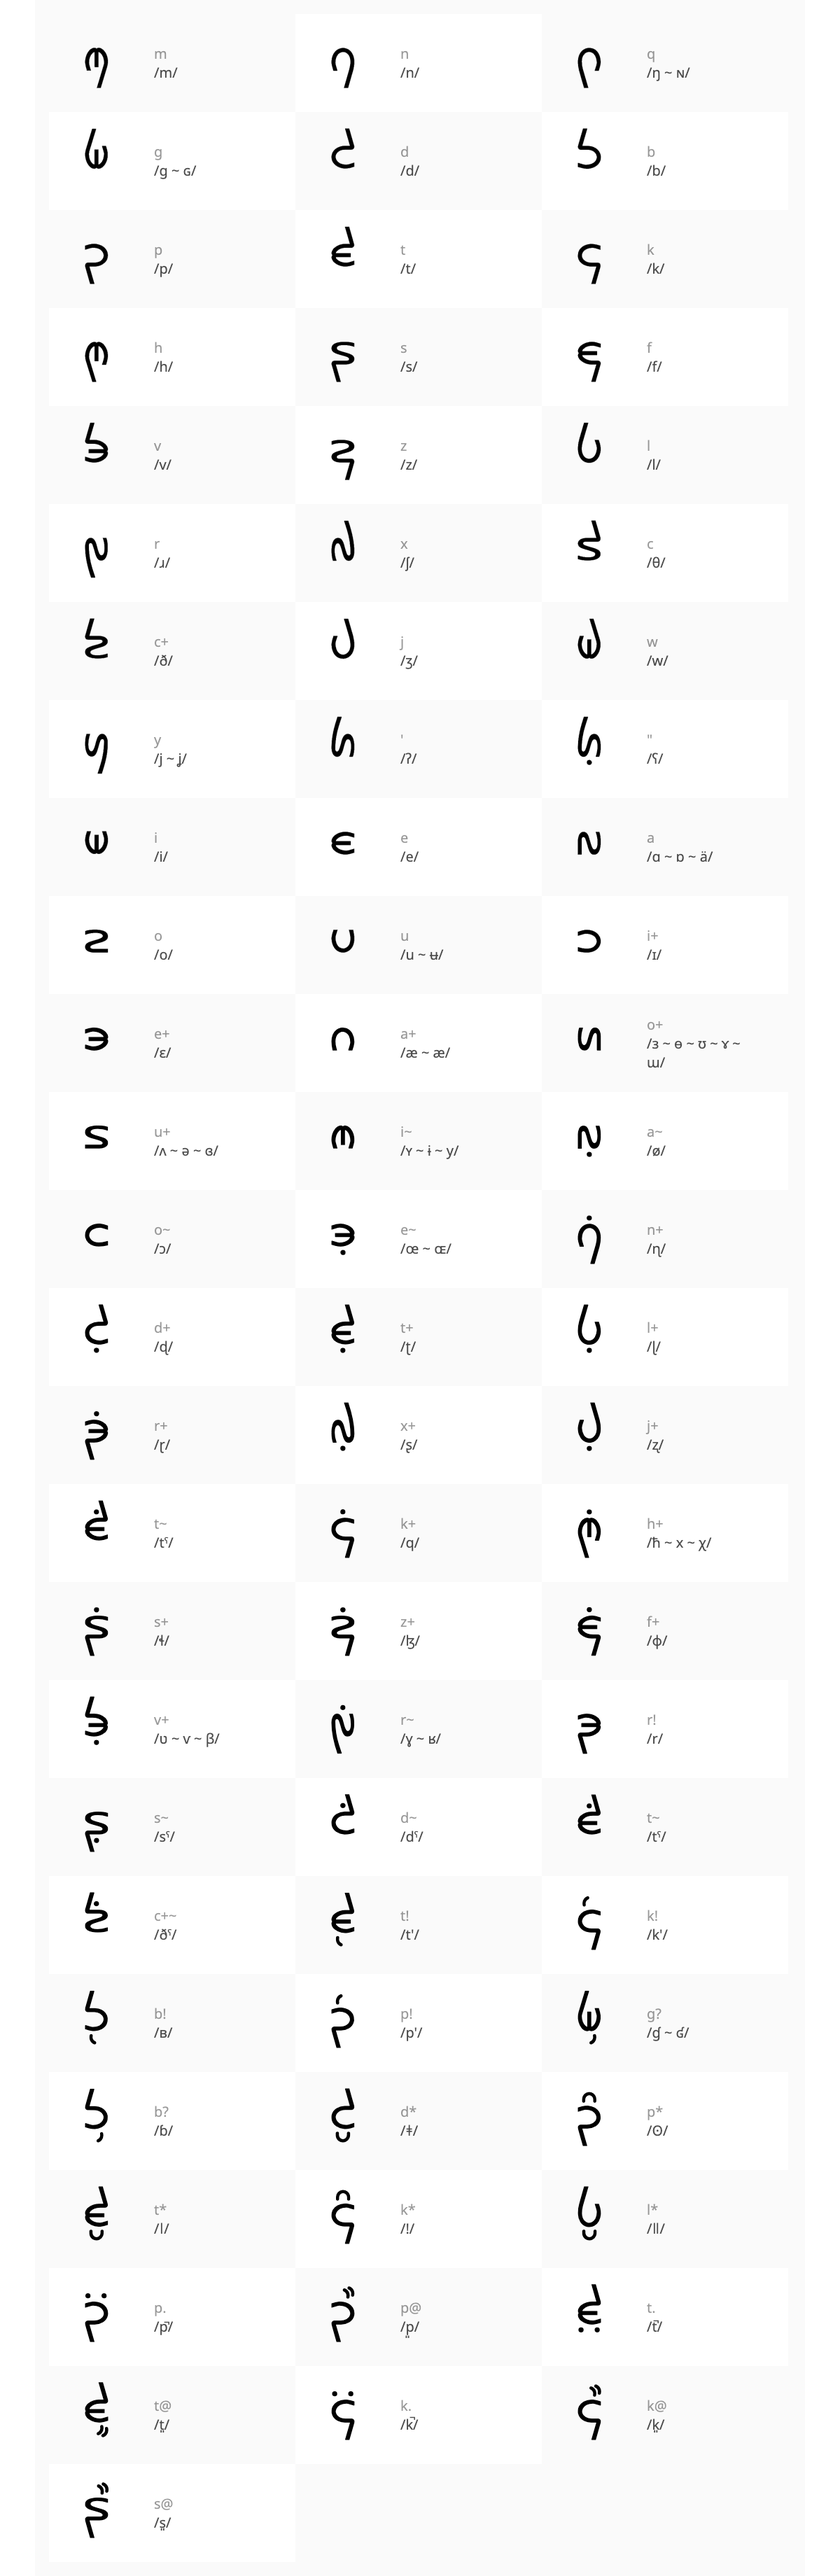
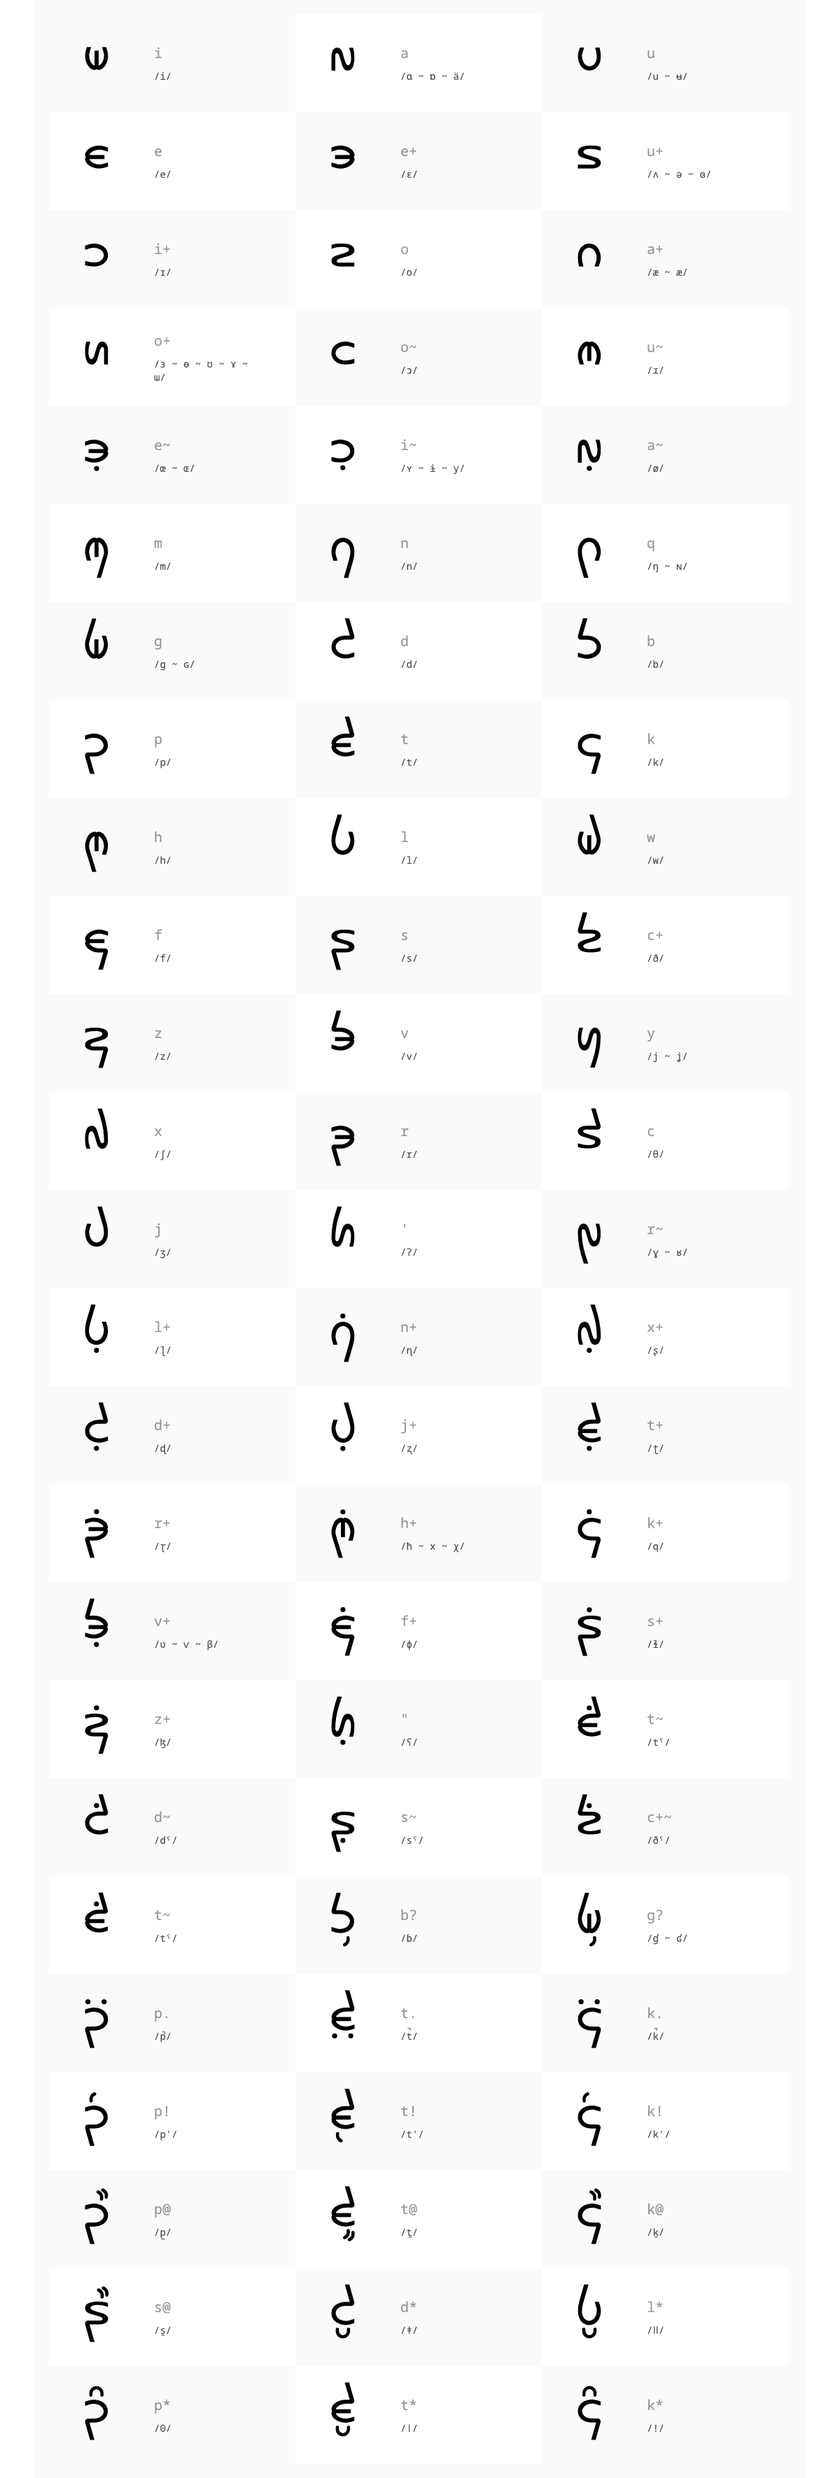
update

diff --git a/form.js b/form.js
@@ -1,26 +1,26 @@
 
 const list = [
-  { text: "i~&__", code: "\u14f0", name: 'Nasal German i with extra low tone' },
-  { text: "i~&_", code: "\u14e2", name: 'Nasal German i with low tone' },
-  { text: "i~&^^", code: "\u14ee", name: 'Nasal German i with extra high tone' },
-  { text: "i~&^", code: "\u14ea", name: 'Nasal German i with high tone' },
-  { text: "i~&", code: "\u14e6", name: 'Nasal German i' },
-  { text: "(i~&__)", code: "\u14f1", name: 'Nasal German i with extra low tone and stress' },
-  { text: "(i~&_)", code: "\u14e3", name: 'Nasal German i with low tone and stress' },
-  { text: "(i~&^^)", code: "\u14ef", name: 'Nasal German i with extra high tone and stress' },
-  { text: "(i~&^)", code: "\u14eb", name: 'Nasal German i with high tone and stress' },
-  { text: "(i~&)", code: "\u14e7", name: 'Nasal German i with stress' },
+  { text: "i~&__", code: "\u1472", name: 'Nasal German i with extra low tone' },
+  { text: "i~&_", code: "\u1464", name: 'Nasal German i with low tone' },
+  { text: "i~&^^", code: "\u1460", name: 'Nasal German i with extra high tone' },
+  { text: "i~&^", code: "\u146c", name: 'Nasal German i with high tone' },
+  { text: "i~&", code: "\u1468", name: 'Nasal German i' },
+  { text: "(i~&__)", code: "\u1473", name: 'Nasal German i with extra low tone and stress' },
+  { text: "(i~&_)", code: "\u1465", name: 'Nasal German i with low tone and stress' },
+  { text: "(i~&^^)", code: "\u1461", name: 'Nasal German i with extra high tone and stress' },
+  { text: "(i~&^)", code: "\u146d", name: 'Nasal German i with high tone and stress' },
+  { text: "(i~&)", code: "\u1469", name: 'Nasal German i with stress' },
 
-  { text: "i~__", code: "\u14fa", name: 'German i with extra low tone' },
-  { text: "i~_", code: "\u0434", name: 'German i with low tone' },
-  { text: "i~^^", code: "\u14fe", name: 'German i with extra high tone' },
-  { text: "i~^", code: "\u0438", name: 'German i with high tone' },
-  { text: "i~", code: "\u0430", name: 'German i' },
-  { text: "(i~__)", code: "\u14fb", name: 'German i with extra low tone and stress' },
-  { text: "(i~_)", code: "\u0435", name: 'German i with low tone and stress' },
-  { text: "(i~^^)", code: "\u14ff", name: 'German i with extra high tone and stress' },
-  { text: "(i~^)", code: "\u0439", name: 'German i with high tone and stress' },
-  { text: "(i~)", code: "\u0432", name: 'German i with stress' },
+  { text: "i~__", code: "\u1478", name: 'German i with extra low tone' },
+  { text: "i~_", code: "\u03d6", name: 'German i with low tone' },
+  { text: "i~^^", code: "\u147c", name: 'German i with extra high tone' },
+  { text: "i~^", code: "\u03da", name: 'German i with high tone' },
+  { text: "i~", code: "\u03d1", name: 'German i' },
+  { text: "(i~__)", code: "\u1479", name: 'German i with extra low tone and stress' },
+  { text: "(i~_)", code: "\u03d7", name: 'German i with low tone and stress' },
+  { text: "(i~^^)", code: "\u147d", name: 'German i with extra high tone and stress' },
+  { text: "(i~^)", code: "\u03db", name: 'German i with high tone and stress' },
+  { text: "(i~)", code: "\u03d3", name: 'German i with stress' },
 
   { text: "i+&__", code: "\u1470", name: 'Nasal short i with extra low tone' },
   { text: "i+&_", code: "\u1462", name: 'Nasal short i with low tone' },
@@ -286,6 +286,28 @@ const list = [
   { text: "(o^)", code: "\u04e9", name: 'O sound with high tone and stress' },
   { text: "(o)", code: "\u04e2", name: 'O sound with stress' },
 
+  { text: "u~&__", code: "\u14f0", name: 'Nasal English r with extra low tone' },
+  { text: "u~&_", code: "\u14e2", name: 'Nasal English r with low tone' },
+  { text: "u~&^^", code: "\u14ee", name: 'Nasal English r with extra high tone' },
+  { text: "u~&^", code: "\u14ea", name: 'Nasal English r with high tone' },
+  { text: "u~&", code: "\u14e6", name: 'Nasal English r' },
+  { text: "(u~&__)", code: "\u14f1", name: 'Nasal English r with extra low tone and stress' },
+  { text: "(u~&_)", code: "\u14e3", name: 'Nasal English r with low tone and stress' },
+  { text: "(u~&^^)", code: "\u14ef", name: 'Nasal English r with extra high tone and stress' },
+  { text: "(u~&^)", code: "\u14eb", name: 'Nasal English r with high tone and stress' },
+  { text: "(u~&)", code: "\u14e7", name: 'Nasal English r with stress' },
+
+  { text: "u~__", code: "\u14fa", name: 'English r with extra low tone' },
+  { text: "u~_", code: "\u0434", name: 'English r with low tone' },
+  { text: "u~^^", code: "\u14fe", name: 'English r with extra high tone' },
+  { text: "u~^", code: "\u0438", name: 'English r with high tone' },
+  { text: "u~", code: "\u0430", name: 'English r' },
+  { text: "(u~__)", code: "\u14fb", name: 'English r with extra low tone and stress' },
+  { text: "(u~_)", code: "\u0435", name: 'English r with low tone and stress' },
+  { text: "(u~^^)", code: "\u14ff", name: 'English r with extra high tone and stress' },
+  { text: "(u~^)", code: "\u0439", name: 'English r with high tone and stress' },
+  { text: "(u~)", code: "\u0432", name: 'English r with stress' },
+
   { text: "u+&__", code: "\u15b0", name: 'Nasal short u with extra low tone' },
   { text: "u+&_", code: "\u15a2", name: 'Nasal short u with low tone' },
   { text: "u+&^^", code: "\u15ae", name: 'Nasal short u with extra high tone' },
@@ -374,7 +396,6 @@ const list = [
   { text: "k@", code: "\u1227", name: 'Tense k sound' },
   { text: "k", code: "\u0050", name: 'K sound' },
   { text: "h+", code: "\u0122", name: 'Hebrew harsh h sound' },
-  { text: "h~", code: "\u0121", name: 'Arabic h sound' },
   { text: "h", code: "\u0120", name: 'H sound' },
   { text: "j+", code: "\u0152", name: 'Indian j sound' },
   { text: "j", code: "\u0150", name: 'J sound' },
@@ -386,7 +407,6 @@ const list = [
   { text: "f+", code: "\u00c2", name: 'Labial f sound' },
   { text: "f", code: "\u00c0", name: 'f sound' },
   { text: "v+", code: "\u00f2", name: 'Labial v sound' },
-  { text: "v~", code: "\u00f1", name: 'Other v sound' },
   { text: "v", code: "\u00f0", name: 'V sound' },
   { text: "z+", code: "\u0092", name: 'Zulu dl sound' },
   { text: "z", code: "\u0090", name: 'Z sound' },
@@ -399,8 +419,7 @@ const list = [
   { text: "l", code: "\u0170", name: 'L sound' },
   { text: "r~", code: "\u01a2", name: 'French r sound' },
   { text: "r+", code: "\u00e2", name: 'Indian r sound' },
-  { text: "r!", code: "\u00e0", name: 'Single rolling r sound' },
-  { text: "r", code: "\u01a0", name: 'English r sound' },
+  { text: "r", code: "\u00e0", name: 'Single rolling r sound' },
   { text: "x+", code: "\u0192", name: 'Indian sh sound' },
   { text: "x.", code: "\u141a", name: 'Stop sh sound' },
   { text: "x@", code: "\u1417", name: 'Tense sh sound' },

diff --git a/readme.md b/readme.md
@@ -16,59 +16,115 @@
 
 <h3 id="summary">Summary</h3>
 
-Tone script (esoteric name _Hanákana_) is a Universal Writing System (UWS), capable of representing all human voice sounds in a concise and readable script. This means you can write any language in tone script script (constructed language or natural language) and read it without having to learn that language's specific quirks. Tone script is a sound-based script like the [Ancient Runes](https://en.wikipedia.org/wiki/Runes), which means when you read see a symbol/letter, you know exactly how it is pronounced. There are no weird edge cases or specific words for which you have to memorize the sound. You simply learn the script and can pronounce the words and texts. You can find how to pronounce the letters in the [PDF guide](https://github.com/mountbuild/tone-script/blob/build/guide.pdf) or partly on [leaf.surf](https://leaf.surf). Print out the [exercises](https://github.com/mountbuild/tone-script/blob/build/exercise.pdf) to learn how to write and pronounce them too! Try typing it interactively [here](https://mountbuild.github.io/tone-script)!
+Tone script (esoteric name Hanákana) is a Universal Writing System (UWS), capable of representing all human voice sounds in a concise and readable script. This means you can write any language in tone script script (constructed language or natural language) and read it without having to learn that language's specific quirks.
+
+Tone script is a sound-based script like the [Ancient Runes](https://en.wikipedia.org/wiki/Runes), which means when you read see a symbol/letter, you know exactly how it is pronounced. There are no weird edge cases or specific words for which you have to memorize the sound. You simply learn the script and can pronounce the words and texts.
+
+You can find how to pronounce the letters in the [PDF guide](https://github.com/mountbuild/tone-script/blob/build/guide.pdf) or partly on [leaf.surf](https://leaf.surf). Print out the [exercises](https://github.com/mountbuild/tone-script/blob/build/exercise.pdf) to learn how to write and pronounce them too! Try typing it interactively [here](https://mountbuild.github.io/tone-script)!
 
 <p align="center">
   <img src="https://github.com/mountbuild/tone-script/blob/build/example.jpg?raw=true" />
 </p>
 
-You may note that Linguistics also has the International Phonetic Alphabet ([IPA](https://en.wikipedia.org/wiki/International_Phonetic_Alphabet)), which seems to accomplish a similar thing. But the IPA is not for writing anything but the most detailed pronunciation guides, not for writing sentences or long texts. Tone script is meant for the later, for writing like you would in a normal language. The ASCII encoding is mapped to IPA for your knowledge in the [call script](https://github.com/mountbuild/call-script). Ideally, tone script would be included in the Unicode standard. But [that is unlikely](http://www.unicode.org/pending/proposals.html) until it is used widely. We have suggested it be used as a writing system [on Mars](https://twitter.com/mountbuild/status/1372723474741927938) 😂. Here is a [book](https://www.amazon.com/32-Languages-Words-Scripts-Multilingual/dp/1951702638) using it as well.
+You may note that Linguistics also has the International Phonetic Alphabet ([IPA](https://en.wikipedia.org/wiki/International_Phonetic_Alphabet)), which seems to accomplish a similar thing. But the IPA is not for writing anything but the most detailed pronunciation guides, not for writing sentences or long texts. Tone script is meant for the later, for writing like you would in a normal language.
+
+The ASCII encoding is mapped to IPA for your knowledge in the [call script](https://github.com/mountbuild/call-script). Ideally, tone script would be included in the Unicode standard, but [that is unlikely](http://www.unicode.org/pending/proposals.html). We have suggested it be used as a writing system [on Mars](https://twitter.com/mountbuild/status/1372723474741927938) 😂. Here is a [book](https://www.amazon.com/32-Languages-Words-Scripts-Multilingual/dp/1951702638) using it as well.
 
 <br/>
 <br/>
 
 <p align="center"><a href="https://www.amazon.com/32-Languages-Words-Scripts-Multilingual/dp/1951702638"><img width="160" src="https://github.com/mountbuild/tone-script/blob/build/book.png?raw=true"/></a></p>
 
+It doesn't necessarily play well with dyslexia, which might find the highly symmetric patterns difficult. We think there are far better methods of learning outside of writing systems than trying to invent the perfect script for all cases. To most natural languages, dyslexia is an unsolved problem. We instead strive to make a minimal seed from which knowledge can be modelled from primitive parts, memorized, and then used to derive further knowledge.
+
+Tone Script is also a monospaced font, to be used eventually for programming. All sounds are derived from 3 base shapes, that for `i`, `a`, and `u`. Rotating and extending tails on them gives you the remaining base letters. Then adding dots to them extends the sound of the base letter slightly. From this it should be straightforward to memorize how to pronounce words in a day or so, and from there you can read and write any language pretty well.
+
 <h3 id="sounds-32">The 32 Sounds</h3>
 
 These are the 32 main sounds. Everything else are variations of these sounds. These "variations" are accomplished in a structured way, see the [guide](https://github.com/mountbuild/tone-script/blob/build/guide.pdf). Indic retroflex consonants are added with a dot on the tailless side. Arabic sounds are added with a dot on the tailed side usually. Clicks are mapped to the closest mouth-position-oriented sound. Ejectives and implosives are simply added with accent marks. Etc.
 
+Alphabetical order is this:
+
 ```
-beat i
-lake e
-call a
-home o
-tune u
-
-kick i
-mess e
-last a
-duck u
-cook o
-
-moon m
-note n
-ring ng
-game g
-dock d
-boat b
-team t
-pick p
-king k
-hook h
-seek s
-fish f
-vote v
-zone z
-yell y
-wind w
-thud th
-ship sh
-rule r
-loom l
-
-then th
-joke j (sure as in measure)
+i
+a
+u
+e
+E
+U
+I
+o
+A
+O
+o~
+u~ (r)
+e~
+i~
+a~
+ma
+na
+qi
+ga
+da
+bi
+pa
+tu
+ki
+hu
+lu
+wi
+fa
+si
+Ci
+za
+vu
+ya
+xu
+ri
+cu
+ji
+'a
+r~i
+La
+Ni
+Xa
+Du
+Ju
+Ti
+Ra
+Ha
+Ku
+Va
+Fu
+Sa
+Zi
+"u
+l~a
+d~a
+s~u
+c+~a
+t~u
+b?a
+g?u
+ap.
+at.
+ak.
+p!
+t!
+k!
+s!
+x!
+T!
+K!
+p@
+t@
+k@
+s@
+d*
+l*
+p*
+t*
+k*
 ```
 
 <p align="center">
@@ -90,7 +146,7 @@ tone-script use tone-script.otf
 To print tone-script-font-ready text in the terminal, use:
 
 ```bash
-tone-script print "he+lo wrld"
+tone-script print "hElo wrld"
 tone-script print "$(<story.txt)"
 ```
 
@@ -115,21 +171,21 @@ npm install @mountbuild/tone-script
 Then in JavaScript or Node.js land:
 
 ```js
-const toTone = require('@mountbuild/tone-script')
+const tone = require('@mountbuild/tone-script')
 
-document.body.innerHTML = toTone('he+lo wrld')
+document.body.innerHTML = tone('hElow wOrld')
 ```
 
 Here is how you might use it more robustly:
 
 ```js
-const lines = `fru+m ma+unt yu faind c+u+ stoun, ritxiq tu c+u+ klaud
-no we+r an rc du yu fil c+u+ pa+wr u+v netxr al u+ra+und
-wi+c c+u+ klaud so klos, yu ka+n si, tu+tx, a+nd test
-fidiq yor e+nrdji tu c+u+ stoun wi+c hest
-ma+unt holdz i+t xep, laik c+u+ sikri+t bal`
+const lines = `frUm mAunt yu faind CU stown, ritxiq tu CU klAwd
+no wEr an Orc duw yuw fil CU pAwOr Uv neytxOr al UrAwnd
+wIc CU klAwd sow klows, yuw kAn si, tUtx, En teyst
+fidiq yor EnOrdji tu CU stown wIc heyst
+mAwnt holdz Its xeyp, layk CU sikrIt bal`
   .split(/\n+/)
-  .map(line => line.split(/\s+/).map(toTone).join(' '))
+  .map(line => line.split(/\s+/).map(tone).join(' '))
   .join('\n')
 
 document.body.innerHTML = lines.split(/\n/)
@@ -181,7 +237,7 @@ limitations under the License.
 
 <h3 id="mount">Mount</h3>
 
-Tone script is being developed by the folks at [Mount](https://mount.build), a California-based project for helping humanity master information and computation. Mount started off in the winter of 2008 as a spark of an idea, to forming a company 10 years later in the winter of 2018, to a seed of a project just beginning its development phases. Mount funds tone script's development. It is entirely bootstrapped by working full time and running [Etsy](https://etsy.com/shop/mountbuild) and [Amazon](https://www.amazon.com/s?rh=p_27%3AMount+Build) shops. Also find us on [Facebook](https://www.facebook.com/mountbuild), [Twitter](https://twitter.com/mountbuild), and [LinkedIn](https://www.linkedin.com/company/mountbuild). Check out our other GitHub projects as well!
+Tone script is being developed by the folks at [Mount](https://mount.build), a California-based project for helping humanity master information and computation. Mount started off in the winter of 2008 as a spark of an idea, to forming a company 10 years later in the winter of 2018, to a seed of a project just beginning its development phases. Mount funds tone script's development with [Etsy](https://etsy.com/shop/mountbuild) and [Amazon](https://www.amazon.com/s?rh=p_27%3AMount+Build) shops. Also find us on [Facebook](https://www.facebook.com/mountbuild), [Twitter](https://twitter.com/mountbuild), and [LinkedIn](https://www.linkedin.com/company/mountbuild). Check out our other GitHub projects as well!
 
 <br/>
 <br/>
